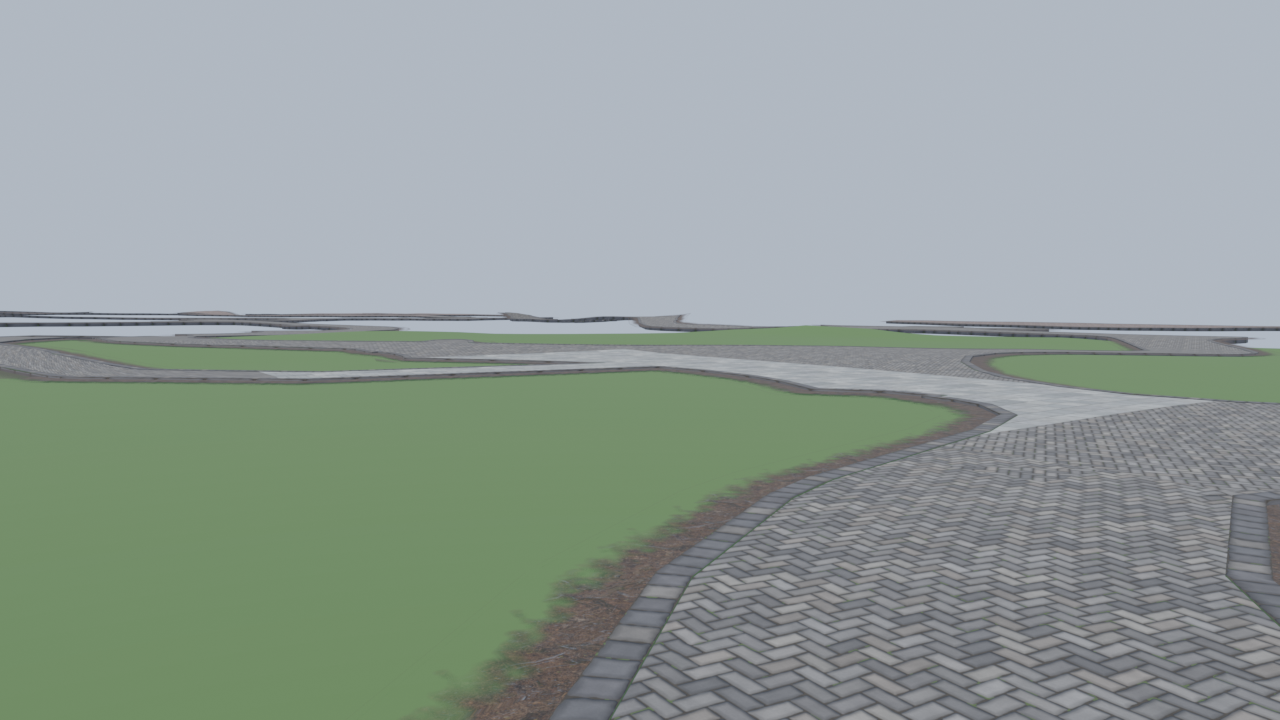
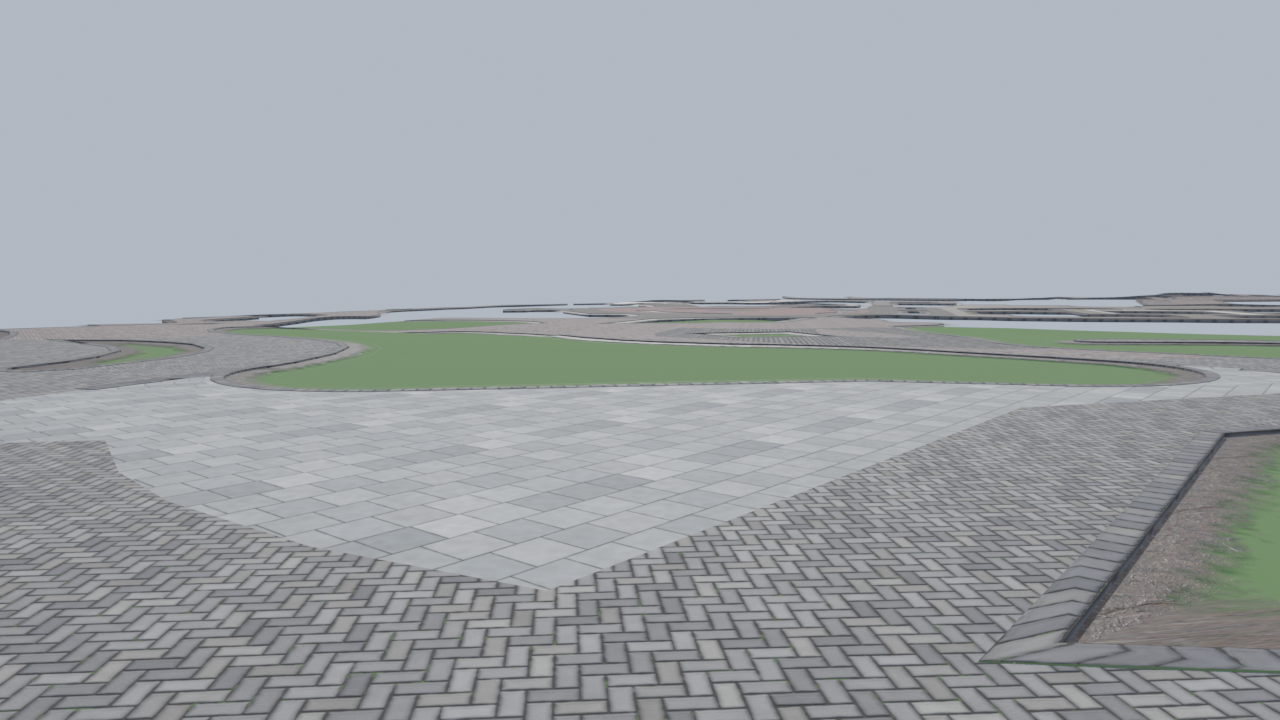
Paden ronde 3e: strepen weg (geen opgetelde draaiing in de padcoordinaat), Trollenkoningplein als platenplein i.p.v. v1-grind

diff --git a/models/PR_Paden/build/02_mesh.py b/models/PR_Paden/build/02_mesh.py
@@ -29,6 +29,18 @@ def zonder_gaatjes(g, min_opp=6.0):
         out.append(Polygon(pg.exterior, [h for h in pg.interiors if Polygon(h).area >= min_opp]))
     return unary_union(out)
 U = zonder_gaatjes(U)
+# extra vlakken (pleintjes die niet in de BGT staan, ref_zones.json 'extra_vlakken'): bij U voegen en de strook tot het pad dichten
+for ev in json.load(open(os.path.join(D, 'ref_zones.json'))).get('extra_vlakken', []):
+    pg = shape(ev['poly']).buffer(0); r_ = ev.get('sluit', 2.0)
+    samen = unary_union([U, pg]); dicht = samen.buffer(r_, join_style=1).buffer(-r_, join_style=1).intersection(pg.buffer(2 * r_)).buffer(0)
+    vul = dicht.difference(U).difference(pg).buffer(0)
+    vul = unary_union([q_ for q_ in (vul.geoms if hasattr(vul, 'geoms') else [vul]) if q_.distance(pg) < 0.05]) if not vul.is_empty else vul   # alleen strookjes die aan het plein grenzen
+    nieuw = unary_union([pg, vul]).difference(U).buffer(0)   # bestaand pad blijft van zichzelf: de pleinrand ligt langs de padrand
+    U = unary_union([U, nieuw]).buffer(0)
+    VL[ev['type']] = unary_union([VL.get(ev['type'], Polygon()), nieuw]).buffer(0)
+    for k in list(VL):
+        if k != ev['type']: VL[k] = VL[k].difference(nieuw).buffer(0)
+    print('extra vlak', ev['naam'], round(nieuw.area, 1), 'm2')
 # typevlakken mee laten groeien tot U (anders kale plekjes in de gedichte naden)
 rest = U.difference(unary_union(list(VL.values())))
 VL['klinker'] = unary_union([VL.get('klinker', Polygon()), rest]).intersection(U).buffer(0)
@@ -313,8 +325,8 @@ def lijn_uv(li, P):
     rel = P - q; v = t[:, 0] * rel[:, 1] - t[:, 1] * rel[:, 0]
     # buiten het lijnstuk (s op 0 of L): ook langs-component meenemen
     along = (rel * t).sum(1); s = s + np.where((s <= 1e-6) | (s >= l['s'][-1] - 1e-6), along, 0)
-    th = np.interp(s, l['s'], l['th'])
-    return s - v * th, v
+    # u = booglengte langs de middellijn (géén opgetelde draaiing erbij: die gaf afschuiving/strepen op lange kronkelpaden)
+    return s, v
 
 def tri_vlak(poly, cell):
     """Driehoeken (lijst van 3x2) die poly bedekken: raster + knippen aan de rand."""

diff --git a/STATUS.md b/STATUS.md
@@ -882,3 +882,9 @@ aangevuld met OSM-paden die > 3 m van een BGT-pad liggen (2,2 m / 3,5 m breed). 
 - 24 asset-paden (plus eerder 4: Herautenplein.MAT_bodem en Sneeuwwitje-omgeving aarde/klinker/band) staan nu in ServerStorage.V1PadVervangen met attribuut Herkomst; plaats_paden.luau verplaatst ze bij een nieuwe plaatsing ook.
 - Bewust blijven staan: vijver-/podiumbodems, water en modder, siergrind Chinese tuin, Villa Volta, Sneeuwwitje-vloer, delen die naast de paden liggen (bv. grindpleintje voor de Trollenkoning-boom, Kogeloog- en Roodkapje-tegels, Kleine Zeemeermin-grind).
 - Place nog niet opgeslagen.
+
+### Ronde 3e (15 nov 2026): strepen weg, Trollenkoningplein
+- Strepen in de bestrating (Daan, screenshot bij park 26.6,2.4): fout in lijn_uv. De langsrichting was s - v*theta met theta de opgetelde draaiing van het hele pad; op lange kronkelpaden (de grote keten is 1,5 km) gaf dat afschuiving tot 16x uitgerekt. Nu u = booglengte langs de middellijn. Uitgerekte driehoeken (verhouding > 1,6): klinker 5%, grijs 8% (krappe binnenbochten); eerder 28-36% boven 2,5.
+- Trollenkoningplein: het v1-grindpleintje is vervangen door een extra bestraat vlak (ref_zones.json 'extra_vlakken', vorm uit Studio) met lichtgrijze platen (video 35:00); de grasstrook tot het pad is gedicht, alleen strookjes die aan het plein grenzen, en het bestaande pad blijft grijze visgraat (pleinrand langs de padrand). TrollenkoningPlein.MAT_grind_0 -> V1PadVervangen.
+- Studio: MODEL 132138991118243, 451 delen met textuur (speltest gestopt om in Edit te plaatsen). Place nog niet opgeslagen.
+- Nog open: ronde verbredingen en het roze rondplein houden wat uitrekking (ringen); niet in Studio op screenshot gecontroleerd (capture reageerde niet), wel in Blender.
